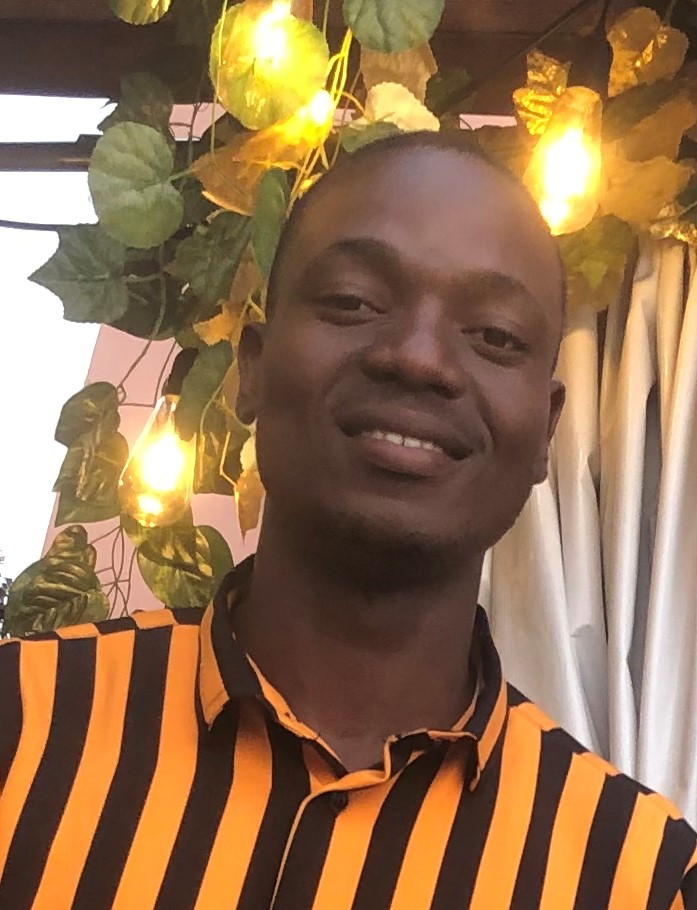
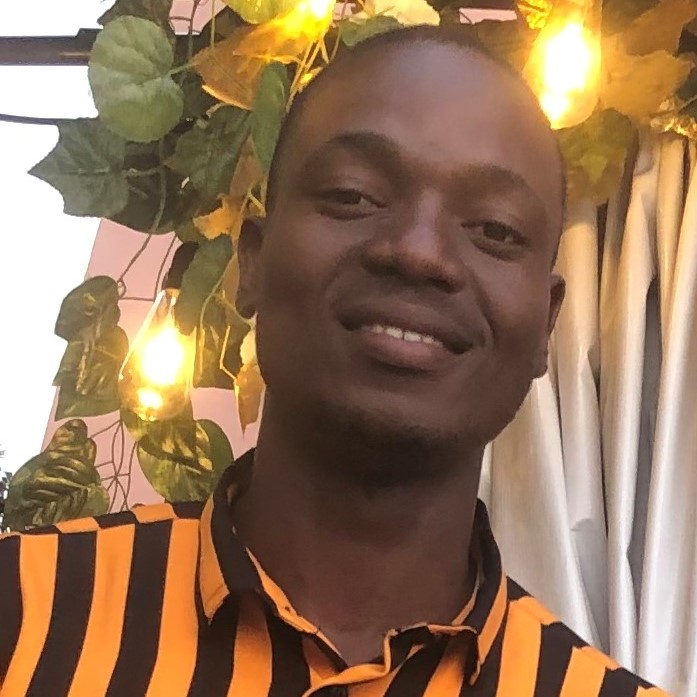
Made Aopeyemi.jpeg square

diff --git a/CONTRIBUTING.md b/CONTRIBUTING.md
@@ -120,6 +120,8 @@ After you have cloned the repository, to add your photocard details, take the fo
 
 7. **Add Your Name:** Add your name to the list of contributors by opening the [Contributors.md](https://github.com/Otavie/altshoolers-2023-photocard/blob/master/Contributors.md) file and adding your name with your GitHub username.
 
+8. **STAR THE OPEN SOURCE REPO:**
+
 
 ### THANK YOU
 Thank you for your contributions.
